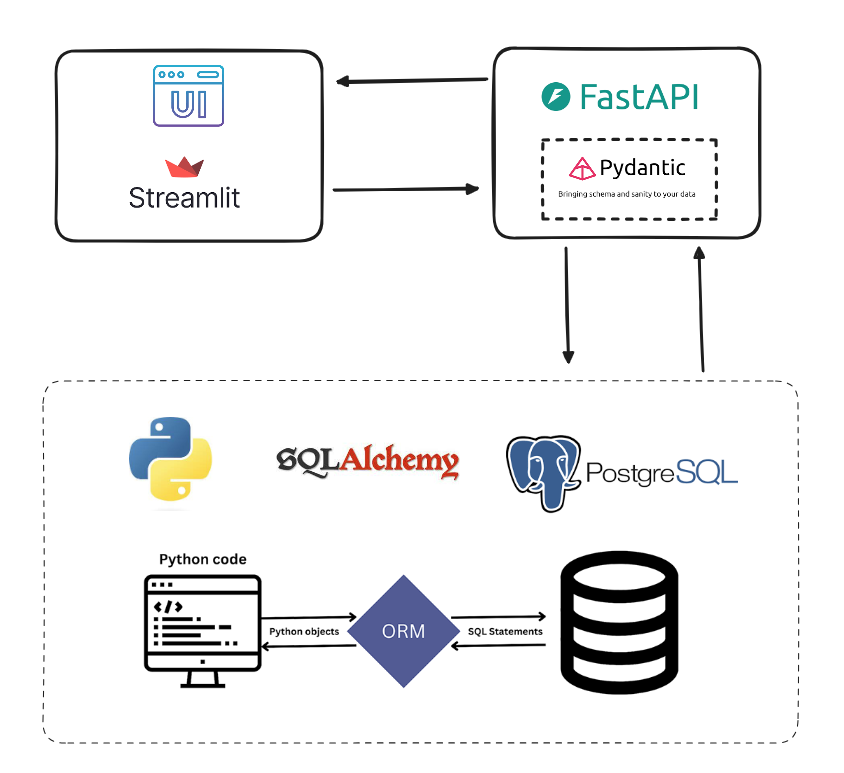
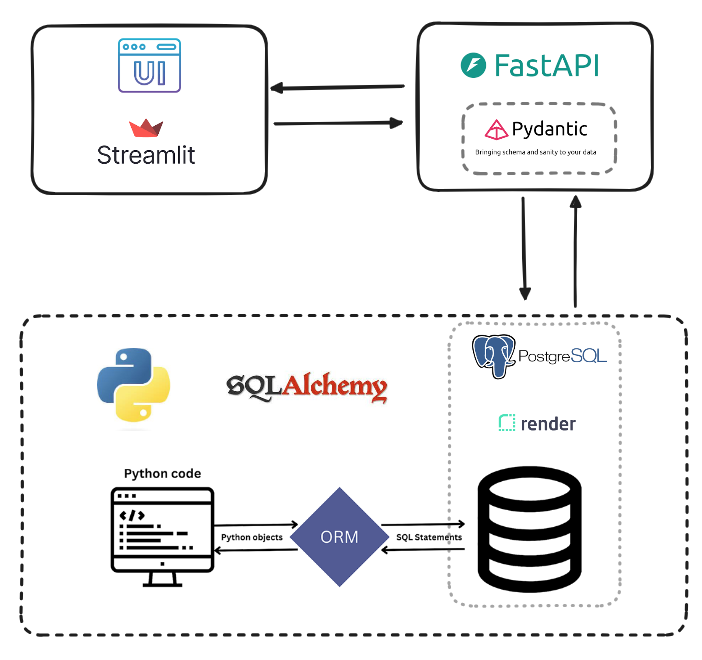
docs: update Readme

diff --git a/README.md b/README.md
@@ -1,10 +1,13 @@
 # Rental Properties CRUD Catalog with SQLAlchemy, FastAPI, Streamlit and AWS Deploy
 
-This project consists of a web application to interact with a catalog of rental properties stored in a PostgreSQL database. Users can perform all CRUD operations, which include: 
-- Create a new item in Database. 
+This project consists of a web application for interacting with a catalog of rental properties stored in a PostgreSQL database hosted on Render Cloud. Users can perform all CRUD operations, which include: 
+
+- Create a new item in the Database. 
 - Accessing all items in the catalog or a specific one by passing the correesponding ID. 
 - Updating a specific item in catalog by passing the corresponding ID. 
 - Delete a specific item in catalog by passing the corresponding ID.
+
+Below is a demonstration of the project deployed on EC2 AWS Cloud. The console on the right shows the API methods and their responses.
 
 <img src="media/demo.gif" width = 1000 />
 
@@ -15,9 +18,9 @@ The catalog has 5 fields:
 | Column Name           | Python Type Hint |
 |-----------------------|------------------|
 | Description  | str              |
-| House Type            | List[str]        |
+| House Type            | str (List)        |
 | Price (€)            | float            |
-| Area (m2)              | float            |
+| Area (m²)              | float            |
 | Location              | str              |
 
 
@@ -28,11 +31,9 @@ In each of these operations, the frontend sends a request to the API created usi
 After Pydantic validation is completed, SQLAlchemy is used to communicate with PostgreSQL and perform one of the CRUD operations in the database
 
 ![](media/diag.png)
-<!-- ![](media/demo.gif) -->
 
 
-
-### Project Folder Structure
+#### Project Folder Structure
 ```
 ├── README.md
 ├── backend
@@ -50,7 +51,8 @@ After Pydantic validation is completed, SQLAlchemy is used to communicate with P
 │   ├── Dockerfile
 │   ├── app.py
 │   └── requirements.txt
-├── pics
+├── media
+│   ├── demo.gif
 │   └── diag.png
 ├── poetry.lock
 └── pyproject.toml
